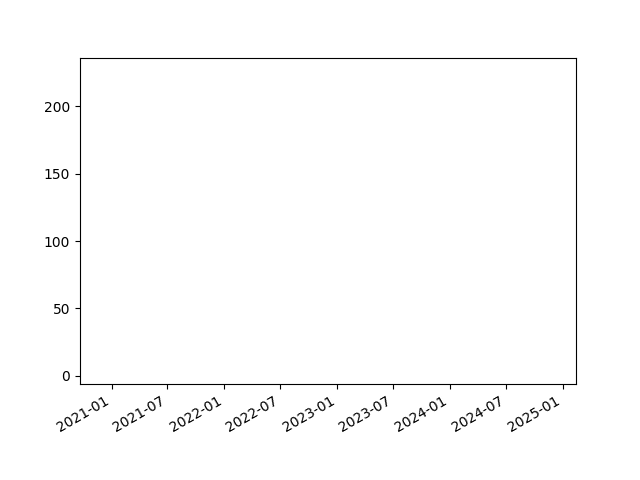
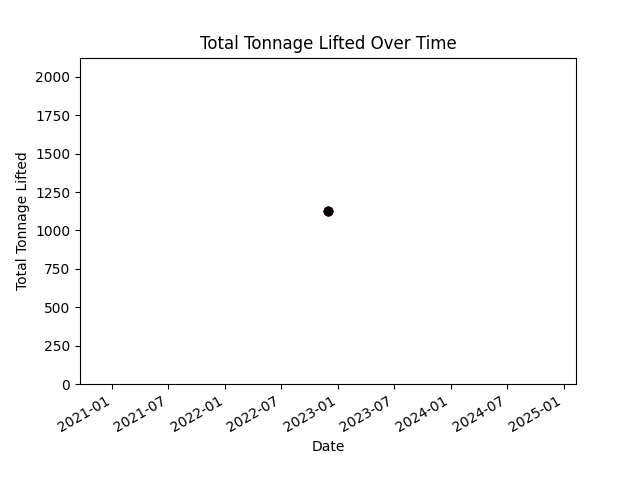
Workout Page Front End Done

diff --git a/items/templates/items/WeightCalculator.html b/items/templates/items/WeightCalculator.html
@@ -2,34 +2,42 @@
 
 {% load crispy_forms_tags %}
 <html lang="en">
-    <head>
-        <meta charset="utf-8">
-        <meta name="viewport" content="width=device-width, initial-scale=1, shrink-to-fit=no">
-        <link rel="stylesheet" href="https://stackpath.bootstrapcdn.com/bootstrap/4.4.1/css/bootstrap.min.css" integrity="sha384-Vkoo8x4CGsO3+Hhxv8T/Q5PaXtkKtu6ug5TOeNV6gBiFeWPGFN9MuhOf23Q9Ifjh" crossorigin="anonymous">
-        <link rel="stylesheet" href="{% static 'WeightCalculator.css' %}">
-        <title>Weight Calculator</title>
-    </head>
-    <body>
-        <form method="POST" enctype="multipart/form-data">
-            <h1 class="text-center mt-3 text-white">Weight Calculator</h1>
-            <div class = "row text-white">
+
+<head>
+    <meta charset="utf-8">
+    <meta name="viewport" content="width=device-width, initial-scale=1, shrink-to-fit=no">
+    <link rel="stylesheet" href="https://stackpath.bootstrapcdn.com/bootstrap/4.4.1/css/bootstrap.min.css"
+        integrity="sha384-Vkoo8x4CGsO3+Hhxv8T/Q5PaXtkKtu6ug5TOeNV6gBiFeWPGFN9MuhOf23Q9Ifjh" crossorigin="anonymous">
+    <link rel="stylesheet" href="{% static 'WeightCalculator.css' %}">
+    <title>Weight Calculator</title>
+</head>
+
+<body>
+    <form method="POST" enctype="multipart/form-data">
+        <h1 class="text-center mt-3 text-white">Weight Calculator</h1>
+        <div class="row text-white">
             {% csrf_token %}
             <!-- Using the formset -->
-                <div class="col-md-12 offset-1 col-lg-3 offset-lg-2 div-wrapper d-flex justify-content-center align-items-center">
-                    <div class="div-to-align">
-                        {{form.deadlift|as_crispy_field}}
-                        {{form.bench|as_crispy_field}}
-                        {{form.squat|as_crispy_field}}
-                        {{form.clean|as_crispy_field}}
-                        {{form.ohp|as_crispy_field}}
-                        {{form.snatch|as_crispy_field}}
-                        <button type="submit">Submit</button>
+            <div id = "Weight"
+                class="col-md-12 offset-1 col-lg-3 offset-lg-2 div-wrapper d-flex justify-content-center align-items-center">
+                <form>
+                    <div class="div-to-align"><br>
+                        {{form.deadlift|as_crispy_field}}<br><br>
+                        {{form.bench|as_crispy_field}}<br><br>
+                        {{form.squat|as_crispy_field}}<br><br>
+                        {{form.clean|as_crispy_field}}<br><br>
+                        {{form.ohp|as_crispy_field}}<br><br>
+                        {{form.snatch|as_crispy_field}}<br><br>
+                        <button type="submit">   Submit  </button>
+                        <button class="plot">
+                            <a href="http://127.0.0.1:8000/plot/">View My Chart</a>
+                        </button>
                     </div>
+                </form>
 
-                </div>
             </div>
-<!--        {{form|crispy}}-->
-        </form>
-    </body>
+        </div>
+    </form>
+</body>
 
 </html>

diff --git a/items/static/WeightCalculator.css b/items/static/WeightCalculator.css
@@ -21,34 +21,6 @@ body {
     font-size: 1.8em;
 }
 
-#PersonalInformation {
-    width: 90%;
-    margin: auto;
-    font: white;
-}
-
-#PersonalInfo {
-    background-color: rgba(0, 0, 0, 0.7);
-    color: white;
-    padding-top: 34px;
-    display: flex;
-    align-items: center;
-    justify-content: center;
-    width: 70%;
-    border-radius: 5px;
-    margin: auto;
-    margin-top: 10px;
-    padding-bottom: 60px;
-}
-
-#Gender select{
-    width: 98.5%;
-    height: 2.8em;
-    position: relative;
-    bottom: 10px;
-    border: 0;
-    border-radius: 5px;
-}
 
 #Weight {
     background-color: rgba(0, 0, 0, 0.7);
@@ -70,12 +42,4 @@ body {
     font: white;
 }
 
-form .box {
-    width: 98.5%;
-    height: 2.8em;
-    position: relative;
-    bottom: 10px;
-    border: 0;
-    border-radius: 5px;
-}
 

diff --git a/items/templates/items/viewWorkout.html b/items/templates/items/viewWorkout.html
@@ -4,7 +4,6 @@
 <ol>
     [{% for workout in workout_list %}
     <li> {{ workout.deadlift }} </li>
-
     {% endfor %}]
 </ol>
 </p>

diff --git a/items/processWorkout.py b/items/processWorkout.py
@@ -6,12 +6,8 @@ import datetime
 
 
 class ProcessWorkout():
-    def parse_the_cursed_string():
-        pass
 
     def process():
-        count = 0
-        count_inner = 0
         deadlift = []
         bench = []
         squat = []
@@ -19,69 +15,146 @@ class ProcessWorkout():
         snatch = []
         ohp = []
         dates = []
-        string_of_weight = ''
-        string_of_reps = ''
-        is_weight_flag = True
-        for i in WorkoutEntry.objects.all():
-            if (count == 0):
-                for letter in i.deadlift:
-                    if letter == 'x':
-                        is_weight_flag = False
-                    if letter == ',':
-                        is_weight_flag = True
-                    if is_weight_flag and letter != 'x' and letter != ',':
-                        string_of_weight += letter
-                    if (not is_weight_flag and letter != 'x' and letter != ','):
-                        string_of_reps += letter
-                    if letter == ',':
-                        print('testing reps, weight'+string_of_reps,
-                              " | ", string_of_weight)
-                        deadlift.append([
-                            int(string_of_weight), int(string_of_reps)])
-                        string_of_weight = ''
-                        string_of_reps = ''
-                        count_inner += 1
-                    print(letter)
-                count = count + 1
-                deadlift.append([
-                    int(string_of_weight), int(string_of_reps)])
-        for i in WorkoutEntry.objects.all():
-            if (count == 0):
-                for letter in i.bench:
-                    if letter == 'x':
-                        is_weight_flag = False
-                    if letter == ',':
-                        is_weight_flag = True
-                    if is_weight_flag and letter != 'x' and letter != ',':
-                        string_of_weight += letter
-                    if (not is_weight_flag and letter != 'x' and letter != ','):
-                        string_of_reps += letter
-                    if letter == ',':
-                        print('testing reps, weight'+string_of_reps,
-                              " | ", string_of_weight)
-                        bench.append([
-                            int(string_of_weight), int(string_of_reps)])
-                        string_of_weight = ''
-                        string_of_reps = ''
-                        count_inner += 1
-                    print(letter)
-                count = count + 1
-                bench.append([
-                    int(string_of_weight), int(string_of_reps)])
-        dates.append(i.date)
+        deadlift = process_exercise('deadlift')
+        bench = process_exercise('bench')
+        squat = process_exercise('squat')
+        clean = process_exercise('clean')
+        snatch = process_exercise('snatch')
+        ohp = process_exercise('ohp')
 
-        dates2 = []
-        for i in range(30):
-            dates2.append(datetime.date.today() - datetime.timedelta(days=i))
+        for i in WorkoutEntry.objects.all():
+            dates.append(i.date)
 
-        # create a list of values
-        values = np.random.randint(0, 100, 30)
+        # create the deadliftTonnage list
+        deadliftTonnage = []
+        benchTonnage = []
+        squatTonnage = []
+        cleanTonnage = []
+        ohpTonnage = []
+        snatchTonnage = []
+        
+        print('printing deadlift')
+        print(deadlift)
+        deadlift_tonnage_part = 0
+        bench_tonnage_part = 0
+        squat_tonnage_part = 0
+        clean_tonnage_part = 0
+        ohp_tonnage_part = 0
+        snatch_tonnage_part = 0
+        
+        for i in deadlift:
+            for j in i:
+                deadlift_tonnage_part += j[0]*j[1]
+            deadliftTonnage.append(deadlift_tonnage_part)
+            deadlift_tonnage_part = 0
+        for i in bench:
+            for j in i:
+                bench_tonnage_part += j[0]*j[1]
+            benchTonnage.append(bench_tonnage_part)
+            bench_tonnage_part = 0
+        for i in squat:
+            for j in i:
+                squat_tonnage_part += j[0]*j[1]
+            squatTonnage.append(squat_tonnage_part)
+            squat_tonnage_part = 0
+        for i in clean:
+            for j in i:
+                clean_tonnage_part += j[0]*j[1]
+            cleanTonnage.append(clean_tonnage_part)
+            clean_tonnage_part = 0
+        for i in ohp:
+            for j in i:
+                ohp_tonnage_part += j[0]*j[1]
+            ohpTonnage.append(ohp_tonnage_part)
+            ohp_tonnage_part = 0
+        for i in snatch:
+            for j in i:
+                snatch_tonnage_part += j[0]*j[1]
+            snatchTonnage.append(snatch_tonnage_part)
+            snatch_tonnage_part = 0
+
+        print(deadliftTonnage)
+        print(dates)
 
         # plot the values
-        plt.plot(dates, deadlift)
+       # plot the values
+        plt.plot(dates, deadliftTonnage, color="orange",
+                 marker="o", linestyle="dashed")
+# add the bench line to the chart
+        plt.plot(dates, benchTonnage, color="blue",
+                 marker="o", linestyle="dashed")
+        # add the squat line to the chart
+        plt.plot(dates, squatTonnage, color="green",
+                 marker="o", linestyle="dashed")
+        # add the clean line to the chart
+        plt.plot(dates, cleanTonnage, color="red",
+                 marker="o", linestyle="dashed")
+        # add the ohp line to the chart
+        plt.plot(dates, ohpTonnage, color="purple",
+                 marker="o", linestyle="dashed")
+        # add the snatch line to the chart
+        plt.plot(dates, snatchTonnage, color="black",
+                    marker="o", linestyle="dashed")
+
 
         # set the x-axis to the dates
         plt.gcf().autofmt_xdate()
 
+        # add labels for the x- and y-axes
+        plt.xlabel("Date")
+        plt.ylabel("Total Tonnage Lifted")
+        # add a title to the chart
+        plt.title("Total Tonnage Lifted Over Time")
+        max_deadlift_tonnage = max(deadliftTonnage)
+        plt.ylim(0, max_deadlift_tonnage+1000)
+        # show the plot
+
         # show the plot
         plt.savefig('items/templates/items/plot.png')
+
+
+def process_exercise(exercise):
+    count = 0
+    count_inner = 0
+    exercise_set = []
+    dates = []
+    string_of_weight = ''
+    string_of_reps = ''
+    is_weight_flag = True
+    exercise_array = []
+    for i in WorkoutEntry.objects.all():
+        print(i.__getattribute__(exercise))
+        if (count == 0):
+            for letter in i.__getattribute__(exercise):
+                if letter == 'x':
+                    is_weight_flag = False
+                if letter == ',':
+                    is_weight_flag = True
+                if is_weight_flag and letter != 'x' and letter != ',':
+                    string_of_weight += letter
+                if (not is_weight_flag and letter != 'x' and letter != ','):
+                    string_of_reps += letter
+                if letter == ',':
+                    # reset the weight and reps strings
+                    print('testing inner reps, weight'+string_of_reps,
+                          " | ", string_of_weight)
+                    exercise_set.append([int(
+                        string_of_weight), int(string_of_reps)])
+                    string_of_weight = ''
+                    string_of_reps = ''
+                    count_inner += 1
+                    count = count + 1
+                print(letter)
+            print('testing reps, weight'+string_of_reps,
+                  " | ", string_of_weight)
+            exercise_set.append(
+                [int(string_of_weight), int(string_of_reps)])
+            exercise_array.append(exercise_set)
+            print(i.date)
+            dates.append(i.date)
+        count = 0
+        is_weight_flag = True
+        string_of_weight = ''
+        string_of_reps = ''
+        exercise_set = []
+    return exercise_array

diff --git a/items/forms.py b/items/forms.py
@@ -2,9 +2,15 @@ from django import forms
 
 
 class CreateWorkout(forms.Form):
-    deadlift = forms.CharField(label="deadlift", max_length=200)
-    squat = forms.CharField(label='squat', max_length=200)
-    bench = forms.CharField(label='bench', max_length=200)
-    clean = forms.CharField(label='clean', max_length=200)
-    snatch = forms.CharField(label='snatch', max_length=200)
-    ohp = forms.CharField(label='ohp', max_length=200)
+    deadlift = forms.CharField(label="Deadlift", max_length=200,
+                               widget=forms.TextInput(attrs={'placeholder': 'Enter your Deadlift'}))
+    squat = forms.CharField(label='Squat', max_length=200,
+                            widget=forms.TextInput(attrs={'placeholder': 'Enter your Squat'}))
+    bench = forms.CharField(label='Bench Press', max_length=200,
+                            widget=forms.TextInput(attrs={'placeholder': 'Enter your Bench Press'}))
+    clean = forms.CharField(label='Clean', max_length=200,
+                            widget=forms.TextInput(attrs={'placeholder': 'Enter your Clean'}))
+    snatch = forms.CharField(label='Snatch', max_length=200,
+                             widget=forms.TextInput(attrs={'placeholder': 'Enter your Snatch'}))
+    ohp = forms.CharField(label='Overhead Press', max_length=200,
+                          widget=forms.TextInput(attrs={'placeholder': 'Enter your Overhead Press'}))

diff --git a/listsite/settings.py b/listsite/settings.py
@@ -119,15 +119,8 @@ USE_TZ = True
 # Static files (CSS, JavaScript, Images)
 # https://docs.djangoproject.com/en/4.1/howto/static-files/
 
-STATICFILES_DIRS = [
-    # existing directories
 
-
-    # update this directory to an existing one
-    os.path.join(BASE_DIR, "items/static"),
-]
-
-STATIC_URL = 'static/'
+STATIC_URL = '/static/'
 
 # Default primary key field type
 # https://docs.djangoproject.com/en/4.1/ref/settings/#default-auto-field
